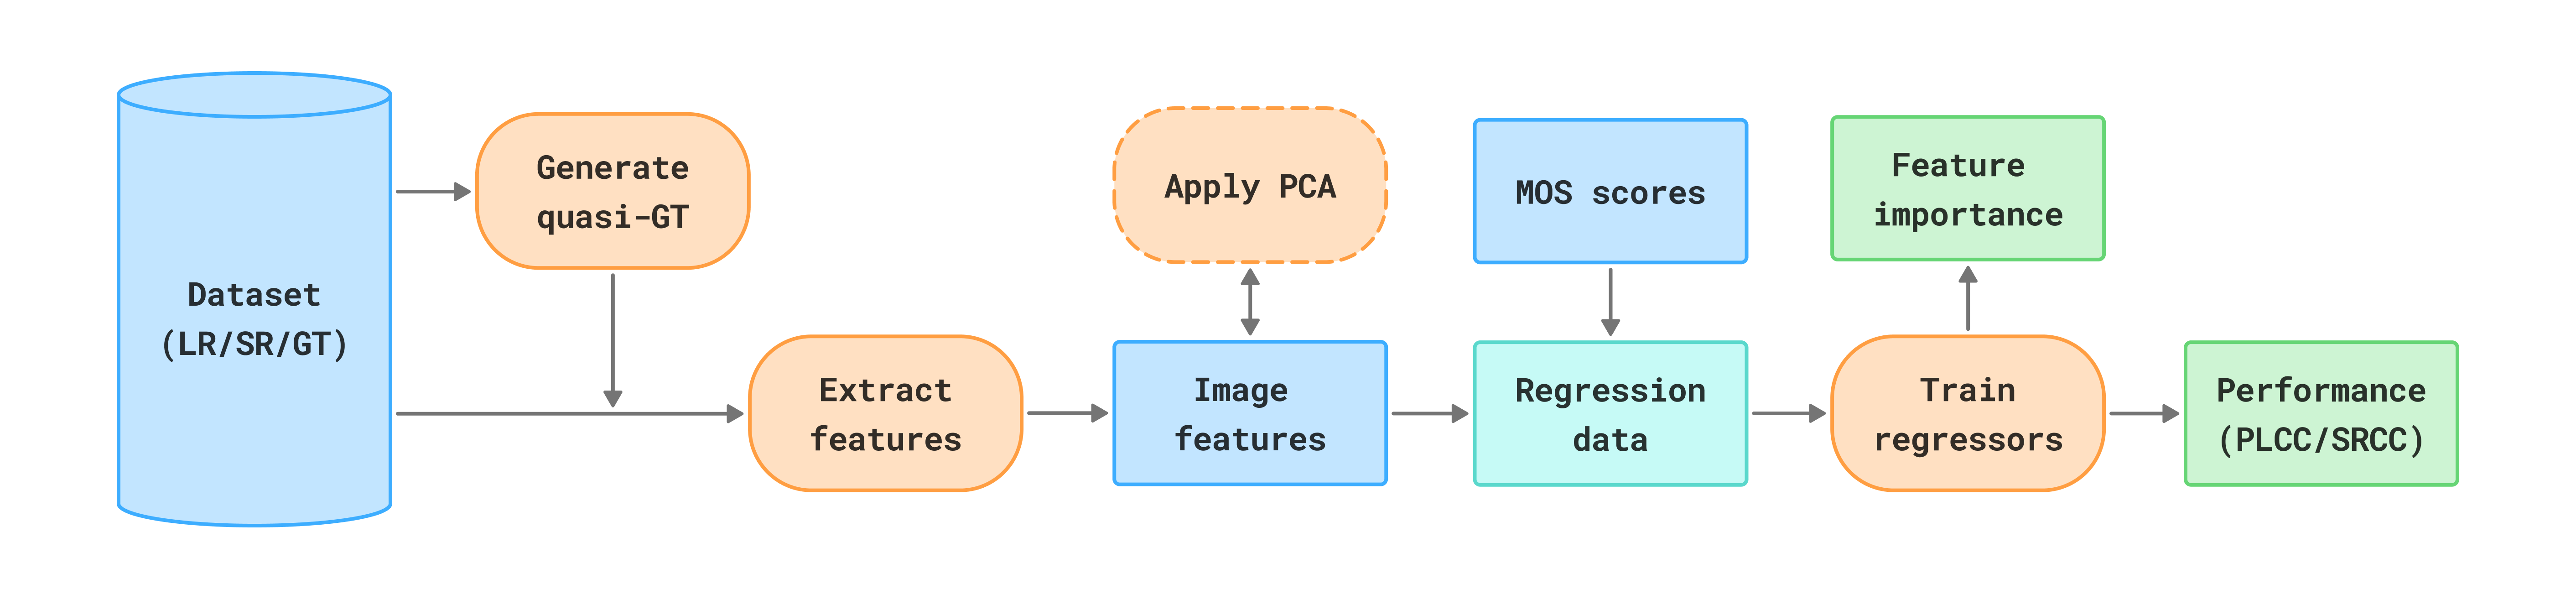
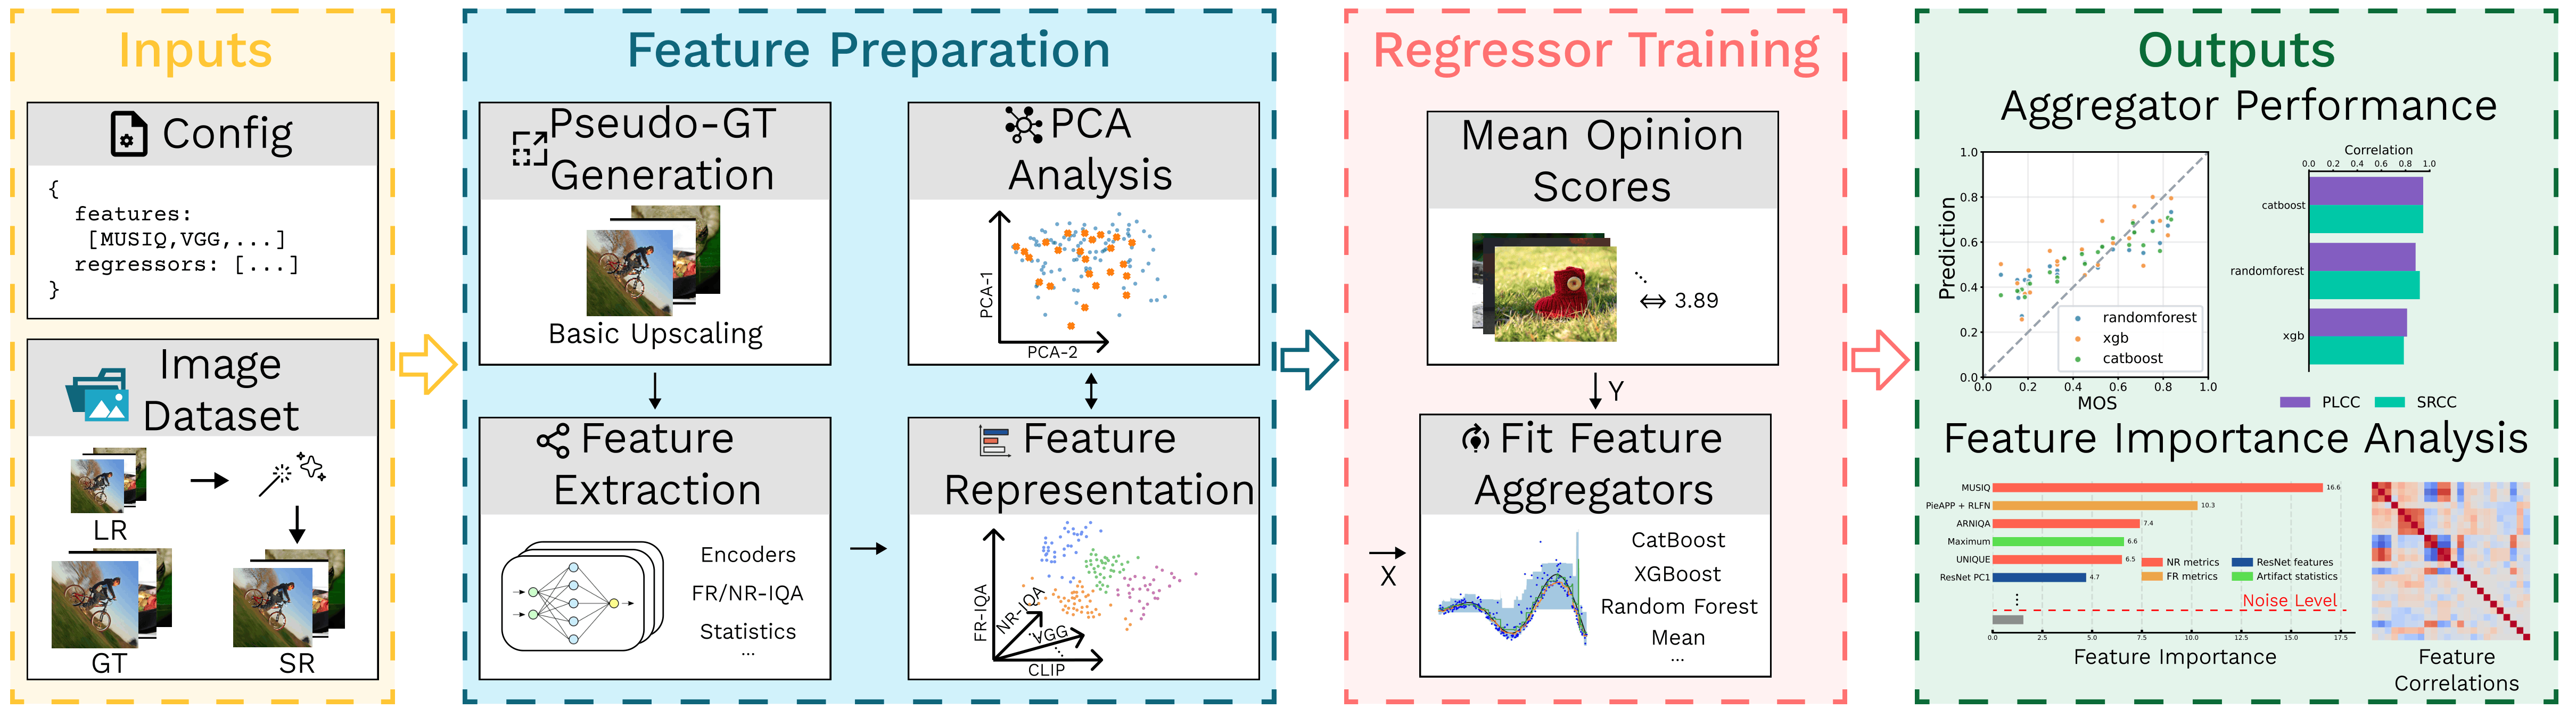
README improvements

diff --git a/README.md b/README.md
@@ -1,5 +1,5 @@
 <div align=center class="logo">
-      <img src="logo.png" style="width:640px">
+      <img src="logo_vector.svg" style="width:640px">
    </a>
 </div>
 
@@ -12,6 +12,8 @@
 <sup>2</sup>AI Center, Lomonosov Moscow State University
 
 <sup>3</sup>MSU Institute for Artificial Intelligence, Lomonosov Moscow State University
+
+🚩 Submitted to [ACM MM Open Source Software 2026](https://2026.acmmm.org/site/call-open-source.html).
 
 ## 🔎 Overview
 
@@ -30,8 +32,7 @@ The proposed pipeline is:
 
 The sections below describe the required data format and the workflow.
 
-![Pipeline overview](pipeline_legend.png)
-
+![Pipeline overview](pipeline.png)
 ---
 
 ## 🐌 Quickstart With Precomputed Features
@@ -103,7 +104,7 @@ python -m pip install -e ".[features,regressors]"
 bash scripts/reproduce_pipeline.sh
 ```
 
-Useful overrides:
+<!-- Useful overrides:
 
 ```bash
 DEVICE=cuda SAVE_SVG=1 bash scripts/reproduce_pipeline.sh
@@ -111,7 +112,7 @@ PROFILE=1 PROFILE_FLOPS=1 bash scripts/reproduce_pipeline.sh
 DATASET_SOURCE=gdrive bash scripts/reproduce_pipeline.sh
 DATASET_SOURCE=archive DATASET_ARCHIVE=/path/to/grounding_dataset.zip bash scripts/reproduce_pipeline.sh
 DATASET_SOURCE=skip DATASET_DIR=dataset bash scripts/reproduce_pipeline.sh
-```
+``` -->
 
 The script writes feature-group CSVs such as `features/fr.csv`, `features/nr.csv`, and `features/vgg.csv`, PCA outputs to `features/pca/`, prepared scores to `scores/`, and plots/results to `plots/`.
 